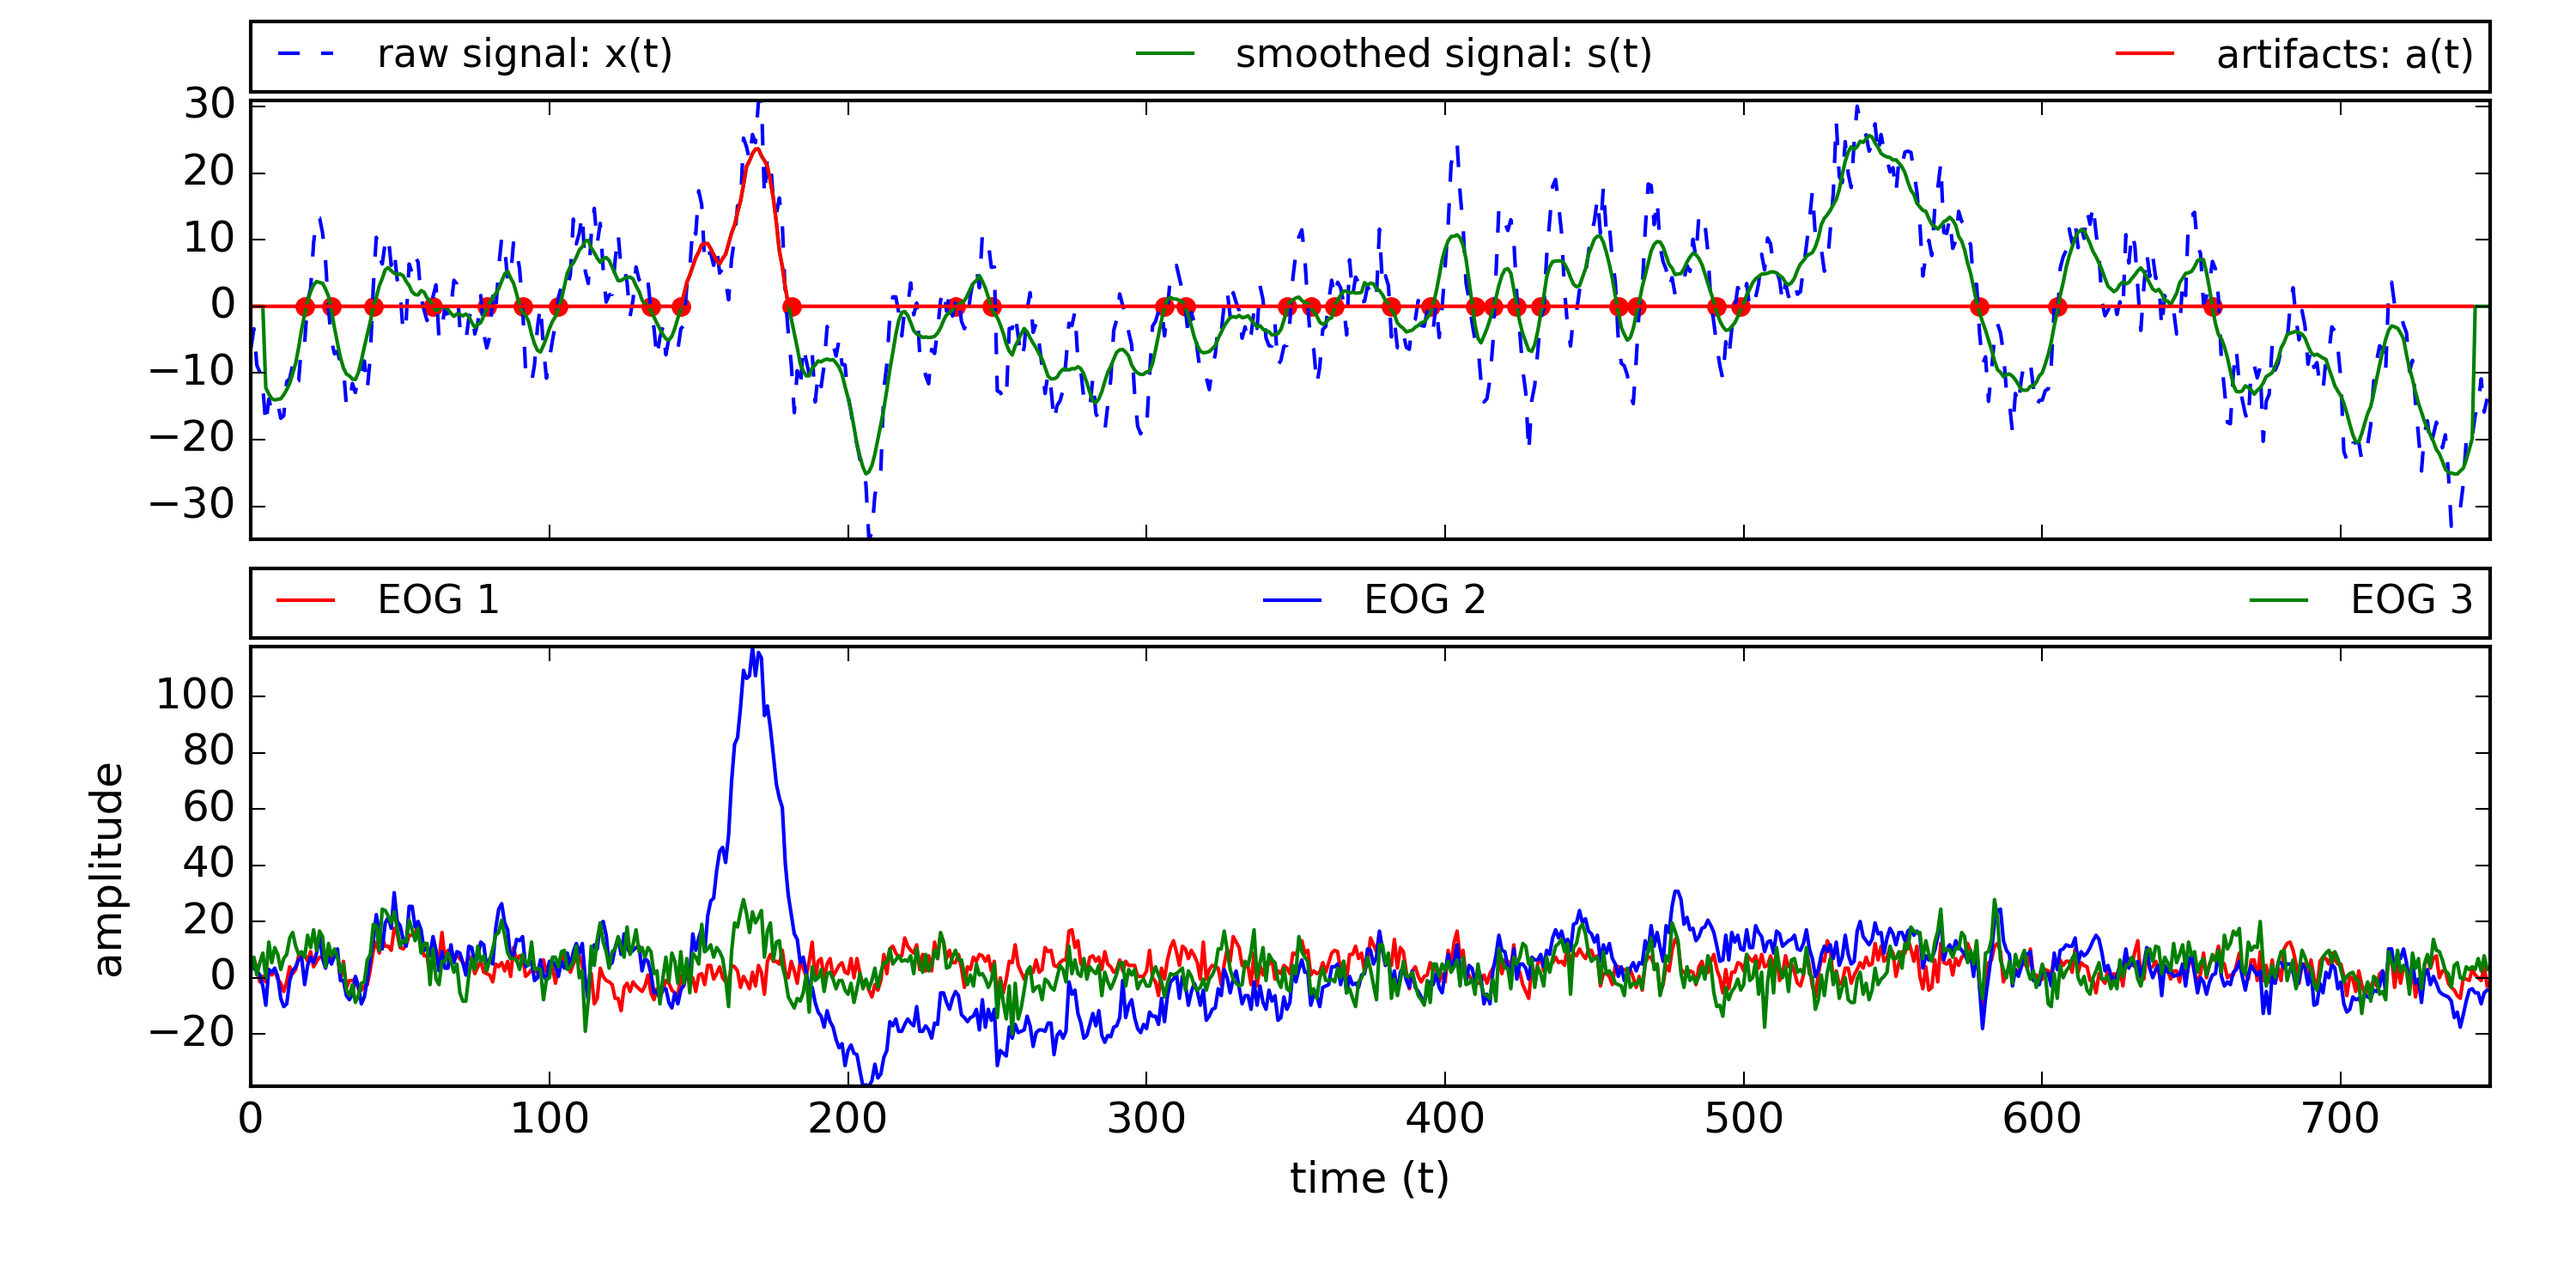
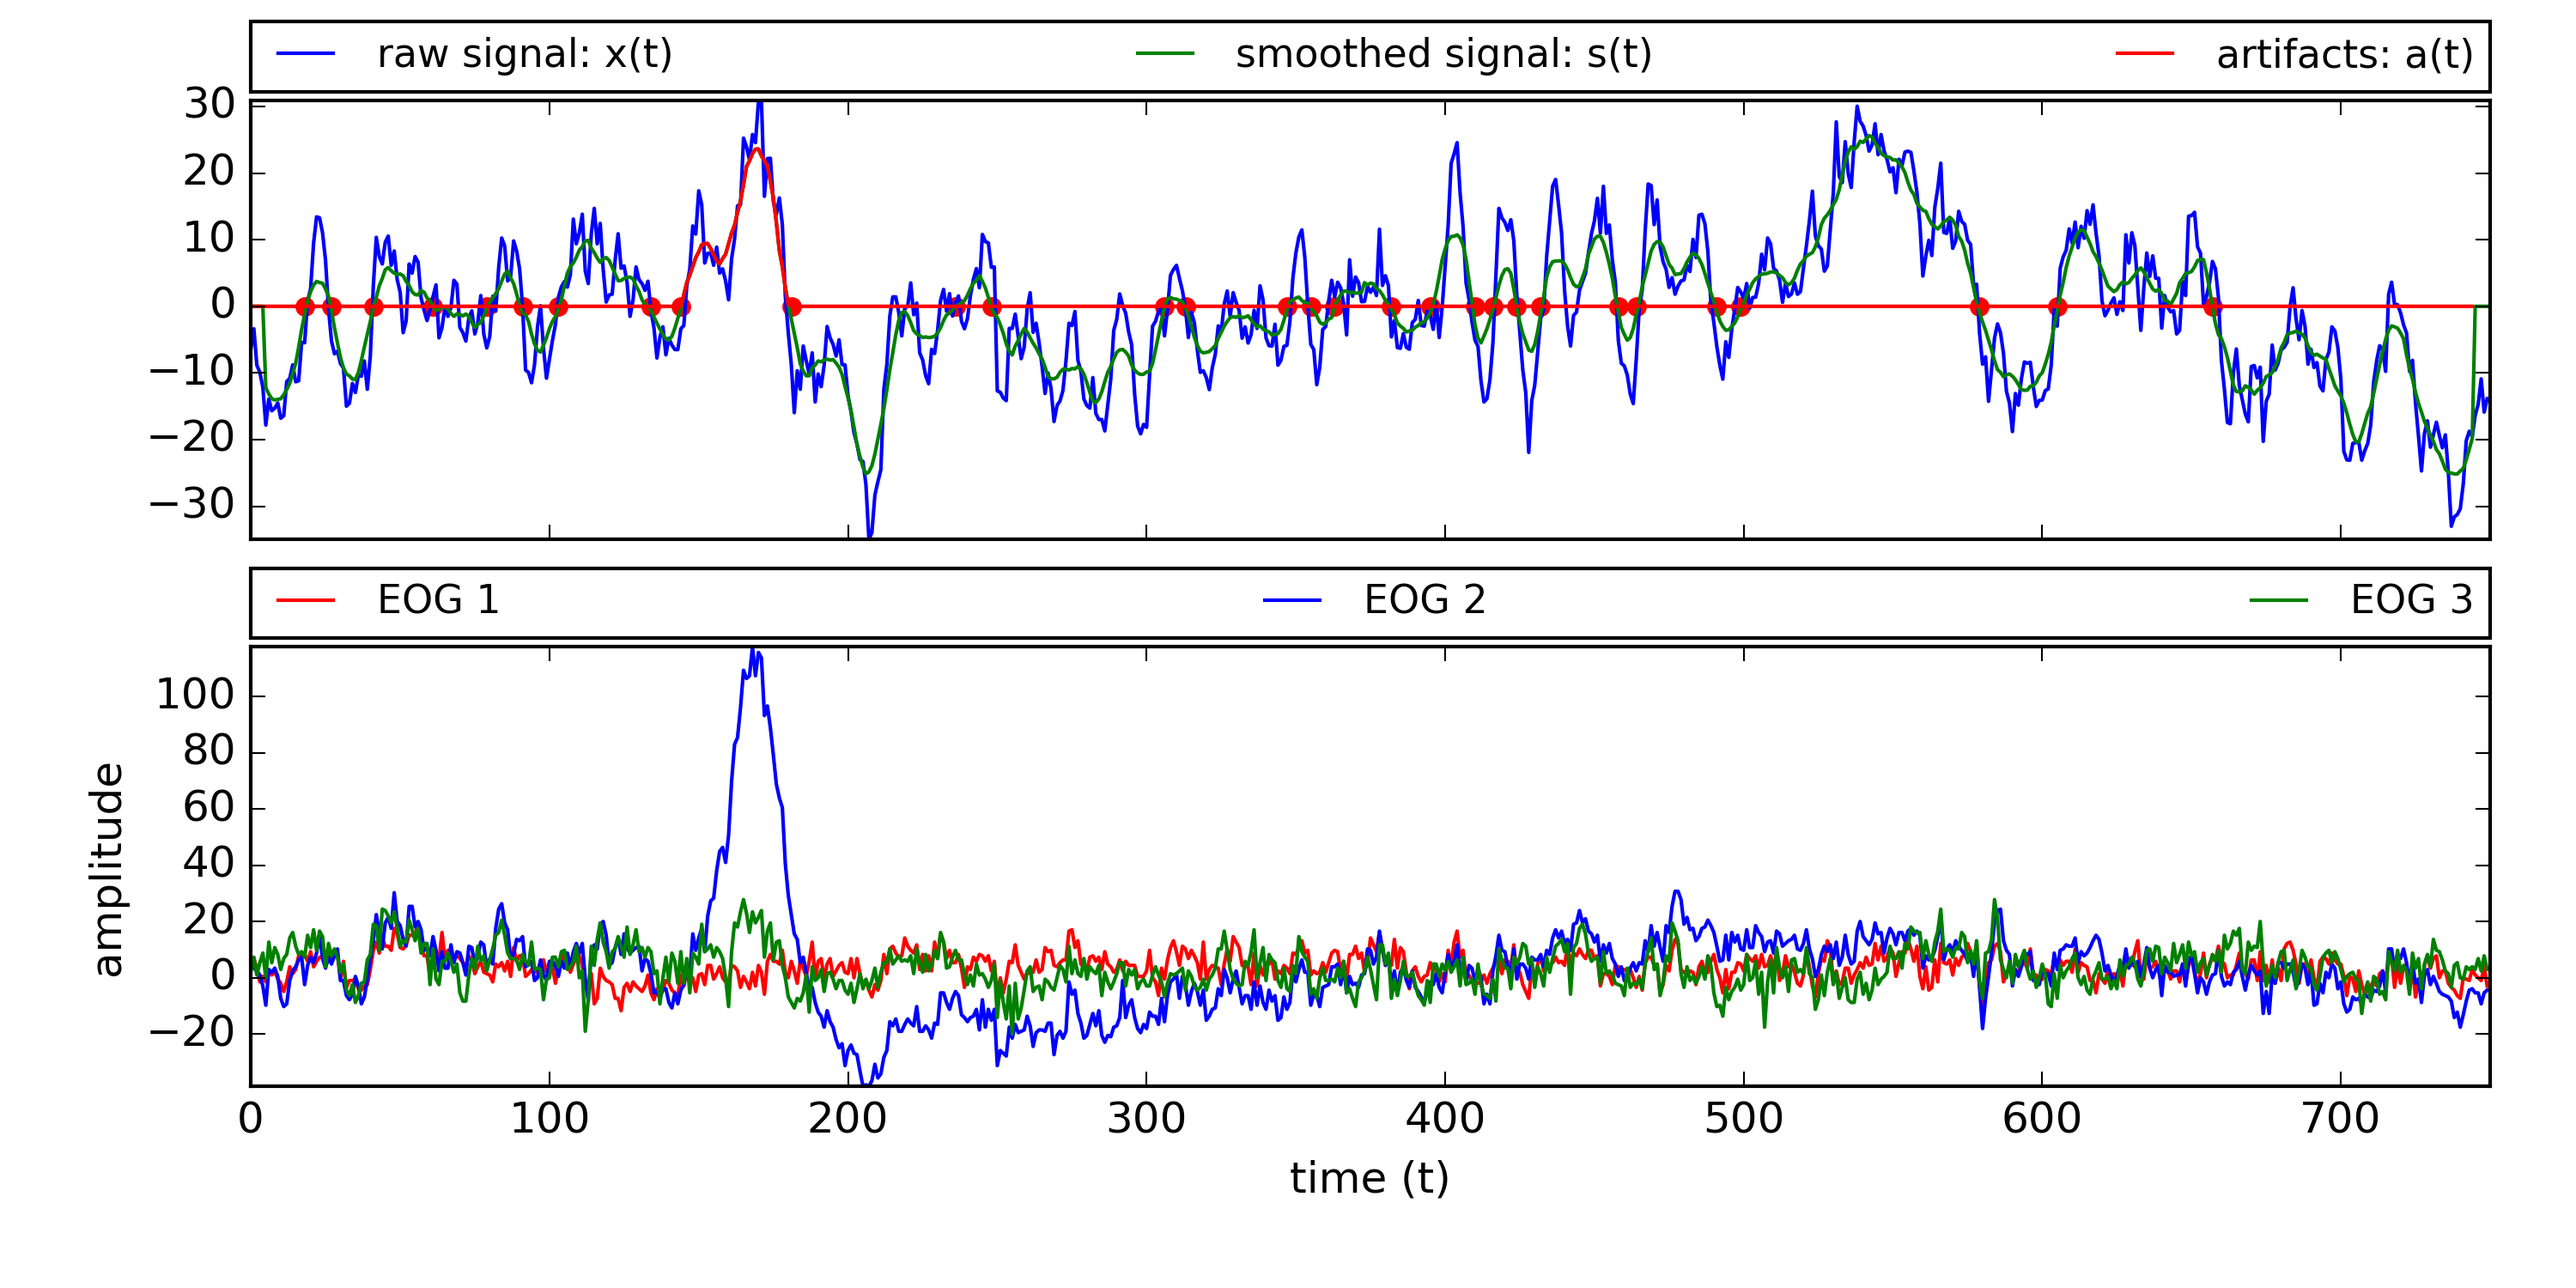
oacl changes

diff --git a/d606/genfigures.py b/d606/genfigures.py
@@ -2,7 +2,6 @@ from matplotlib import pyplot as plt
 from matplotlib import style
 from preprocessing.oacl import moving_avg_filter, find_relative_heights, find_peak_indexes, find_artifact_signal, zero_index
 from preprocessing.dataextractor import load_data
-from matplotlib2tikz import save as tikz_save
 import numpy as np
 
 def plot_example1():
@@ -35,7 +34,7 @@ def plot_example1():
     fig, ax = plt.subplots(2, sharex=True, figsize=(10,5))
     #plt.subplot(211)
     # plot shit
-    ax[0].plot([x for x in range(0, len(raw_signal))], raw_signal, 'b--', label='raw signal: x(t)')
+    ax[0].plot([x for x in range(0, len(raw_signal))], raw_signal, 'b', label='raw signal: x(t)')
     ax[0].plot([x for x in range(0, len(padded_fsignal))], padded_fsignal, 'g', label='smoothed signal: s(t)')
     ax[0].plot([x for x in range(0, len(artifacts))], artifacts, 'r', label='artifacts: a(t)')
     yax = [0]*len(zero_indexes)
